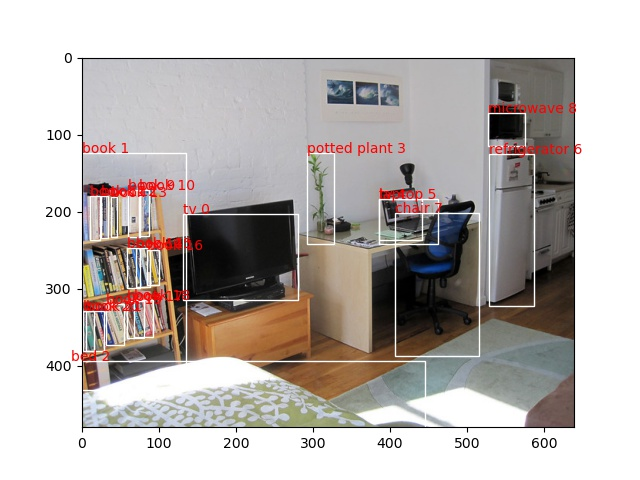
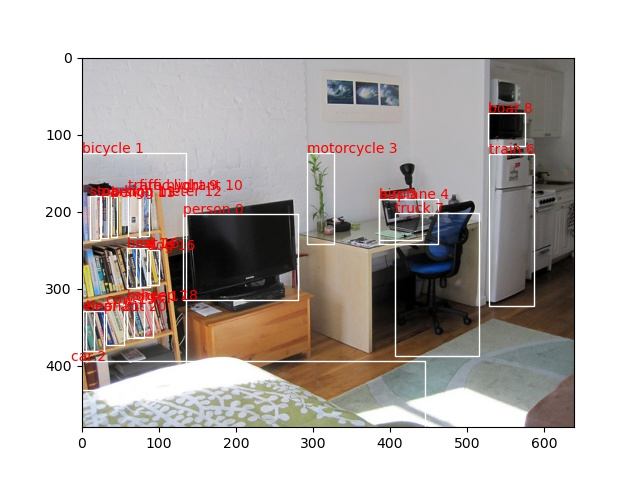
location files

diff --git a/helper.py b/helper.py
@@ -1,4 +1,6 @@
+import copy
 import os
+import re
 from collections import Counter
 
 import pandas as pd
@@ -18,6 +20,19 @@ EN = 0
 BIERNIK = 3
 NARZEDNIK = 4
 
+data_path = os.path.join(os.path.dirname(os.path.abspath(__file__)), "pl/location.csv")
+frameworks_location = pd.read_csv(data_path, delimiter=', ', engine='python', header=None).values
+frameworks_location = dict(zip(frameworks_location[:, 0], frameworks_location[:, 1:]))
+
+data_path = os.path.join(os.path.dirname(os.path.abspath(__file__)), "pl/orientation.csv")
+frameworks_orientation = pd.read_csv(data_path, delimiter=', ', engine='python', header=None).values
+frameworks_orientation = dict(zip(frameworks_orientation[:, 0], frameworks_orientation[:, 1:]))
+
+data_path = os.path.join(os.path.dirname(os.path.abspath(__file__)), "pl/yolov3_LM.csv")
+data_multilingual_obj_names_lm = pd.read_csv(data_path, delimiter=', ', engine='python', index_col=None)
+
+data_path = os.path.join(os.path.dirname(os.path.abspath(__file__)), "pl/yolov3.csv")
+data_multilingual_obj_names = pd.read_csv(data_path, delimiter=', ', engine='python', index_col=None)
 
 def fmpm(scene, fuzzy):
     # liczba obiektow
@@ -195,19 +210,7 @@ def verbalize_pred_pl(pred, scene, fuzzy, v_labels_sequential):
     # data_path = os.path.join(os.path.dirname(os.path.abspath(__file__)), "pl/location_pl.csv")
     # location = pd.read_csv(data_path, delimiter=', ', engine='python').values
 
-    data_path = os.path.join(os.path.dirname(os.path.abspath(__file__)), "pl/location.csv")
-    frameworks_location = pd.read_csv(data_path, delimiter=', ', engine='python', header=None).values
-    frameworks_location = dict(zip(frameworks_location[:, 0], frameworks_location[:, 1:]))
 
-    data_path = os.path.join(os.path.dirname(os.path.abspath(__file__)), "pl/orientation.csv")
-    frameworks_orientation = pd.read_csv(data_path, delimiter=', ', engine='python', header=None).values
-    frameworks_orientation = dict(zip(frameworks_orientation[:, 0], frameworks_orientation[:, 1:]))
-
-    data_path = os.path.join(os.path.dirname(os.path.abspath(__file__)), "pl/yolov3_LM.csv")
-    data_multilingual_obj_names_lm = pd.read_csv(data_path, delimiter=', ', engine='python', index_col=None)
-
-    data_path = os.path.join(os.path.dirname(os.path.abspath(__file__)), "pl/yolov3.csv")
-    data_multilingual_obj_names = pd.read_csv(data_path, delimiter=', ', engine='python', index_col=None)
 
     image_labels_counter = Counter(v_labels_sequential)
     for object_name in image_labels_counter.keys():
@@ -232,11 +235,11 @@ def verbalize_pred_pl(pred, scene, fuzzy, v_labels_sequential):
 
         framework_location = frameworks_location[location_name_curr][0]
         framework_orientation = frameworks_orientation[orientation_name_curr][0]
-        txt = txt.__add__(
-            framework_location.format_map(get_row(data_multilingual_obj_names, first_obj_name)))
+        sentence = create_replacement(framework_location, data_multilingual_obj_names,
+                                      [first_obj_name, second_obj_name])
+        txt = txt.__add__(sentence)
         txt = txt.__add__(", ")
-        txt = txt.__add__(
-            framework_orientation.format_map(get_row(data_multilingual_obj_names, first_obj_name)))
+        txt = txt.__add__("{}".format(framework_orientation))
         txt = txt.__add__("\n")
     return txt
 
@@ -248,6 +251,20 @@ def find_name(data, name):
 def get_row(data, name):
     return data.iloc[
         data.index[data['ENG'] == name]].to_dict('records')[0]
+
+
+def create_replacement(framework, data_multilingual_obj_names, predicate_ref_obj):
+    regex = r'\{(.*?)\}'
+    obj_places = re.findall(regex, framework)
+    sentence = copy.copy(framework)
+    for a_string in obj_places:
+        result = a_string.split(":")
+        object_case_name = result[0]
+        object_place = int(result[1])
+        object_case = get_row(data_multilingual_obj_names, predicate_ref_obj[object_place])
+        s = "{" + a_string + "}"
+        sentence = sentence.replace(s, object_case[object_case_name])
+    return sentence
 
 
 def verbalize_pred_eng(pred, scene, fuzzy, v_labels_sequential):

diff --git a/YOLO/img_det.py b/YOLO/img_det.py
@@ -125,37 +125,42 @@ def load_image_pixels(filename, shape):
 
 
 # get all of the results above a threshold
-def get_boxes(boxes, labels, thresh, image_w, image_h, photo_filename, photo_boxed_filename):
-    v_boxes2, v_boxes, v_scores = list(), [], list()
+def get_boxes(boxes, thresh):
+    v_boxes, v_labels, v_scores = list(), list(), list()
     # enumerate all boxes
-    obj_number = 1
-    b = [0, 0, 10, 10, image_w, image_h]
-    v_labels = ['scene']
-    v_labels_sequential = ['scene']
-    v_boxes.append(b)
     for box in boxes:
         # enumerate all possible labels
         for i in range(len(labels)):
             # check if the threshold for this label is high enough
             if box.classes[i] > thresh:
-                y1, x1, y2, x2 = box.YtopLeft, box.XtopLeft, box.YbottomRight, box.XbottomRight
-                # calculate width and height of the box
-                width, height = box.calculate_width(), box.calculate_height()
-
-                def check_labels(lab):
-                    if lab not in v_labels:
-                        v_labels.append(lab)
-                    return v_labels.index(lab)
-
-                b = [obj_number, check_labels(labels[i]), x1, y1, width, height]
-                v_boxes.append(b)
-                v_boxes2.append(box)
-                v_labels_sequential.append(labels[i])
+                v_boxes.append(box)
+                v_labels.append(labels[i])
                 v_scores.append(box.classes[i] * 100)
-                obj_number += 1
             # don't break, many labels may trigger for one box
+    return v_boxes, v_labels, v_scores
 
-    return v_boxes, v_labels, v_scores, v_labels_sequential
+
+def return_coordinates(v_boxes, v_labels, image_w, image_h):
+    v_boxes_matlab = []
+    obj_number = 1
+    b = [0, 0, 10, 10, image_w, image_h]
+    v_labels_matlab = ['scene']
+    v_labels_matlab_sequential = ['scene']
+    v_boxes_matlab.append(b)
+    for idx, box in enumerate(v_boxes):
+        y1, x1, y2, x2 = box.YtopLeft, box.XtopLeft, box.YbottomRight, box.XbottomRight
+        width, height = box.calculate_width(), box.calculate_height()
+
+        def check_labels(lab):
+            if lab not in v_labels_matlab:
+                v_labels_matlab.append(lab)
+            return v_labels_matlab.index(lab)
+
+        b = [obj_number, check_labels(v_labels[idx]), x1, y1, width, height]
+        v_boxes_matlab.append(b)
+        v_labels_matlab_sequential.append(labels[idx])
+        obj_number += 1
+    return v_boxes_matlab, v_labels_matlab, v_labels_matlab_sequential
 
 
 # draw all results
@@ -215,8 +220,6 @@ def vbox_engine(photo_filename, photo_boxed_filename):
     do_nms(boxes, 0.5)
     # define the labels
     # get the details of the detected objects
-    v_boxes, v_labels, v_scores, v_labels_sequential = get_boxes(boxes, labels, class_threshold, image_w, image_h,
-                                                                 photo_filename,
-                                                                 photo_boxed_filename)
-    return v_boxes, v_labels, v_scores, image_w, image_h, v_labels_sequential
+    v_boxes, v_labels, v_scores = get_boxes(boxes, class_threshold)
+    return v_boxes, v_labels, v_scores, image_w, image_h
 # summarize what we found

diff --git a/test.py b/test.py
@@ -5,7 +5,7 @@ from Scene import Scene
 from PIL import Image
 from itertools import repeat
 
-from YOLO.img_det import vbox_engine, draw_boxes
+from YOLO.img_det import vbox_engine, draw_boxes, return_coordinates
 import numpy as np
 
 from helper import generate_description, verbalize_pred_pl, verbalize_pred, verbalize_pred_eng
@@ -16,26 +16,27 @@ def from_pic(input_filename):
     input_filename = str(input_filename)
     print("The file name you entered is: ", input_filename)
     photo_boxed_filename = input_filename.replace('.jpg', '_boxed.jpg')
-    v_boxes, v_labels, v_scores, image_w, image_h, v_labels_sequential = vbox_engine(input_filename,
-                                                                                     photo_boxed_filename)
+    v_boxes, v_labels, v_scores, image_w, image_h = vbox_engine(input_filename,
+                                                                photo_boxed_filename)
+    v_boxes_matlab_format, v_labels_matlab, v_labels_matlab_sequential = return_coordinates(v_boxes, v_labels, image_w, image_h)
 
     image = Image.open(input_filename)
 
     size = image.size
-    onames = v_labels
-    obj_num = len(v_boxes)
+    onames = v_labels_matlab
+    obj_num = len(v_boxes_matlab_format)
     ocolors = []
     ocolors.extend(repeat([1, 1, 1], obj_num))
-    obj = np.array(v_boxes)
+    obj = np.array(v_boxes_matlab_format)
 
     obj_org = copy.copy(obj)
     background = []
     im = image
     background2 = []
-    scene = Scene(im=im, fname=input_filename, size=size, onames=onames, ocols=ocolors, obj=obj, obj_num=obj_num,
+    scene = Scene(im=im, fname=input_filename, size=size, onames=onames, ocols=[], obj=obj, obj_num=obj_num,
                   obj_org=obj_org,
                   background=background, background2=background2)
-    return scene, v_labels_sequential
+    return scene, v_labels_matlab, v_labels_matlab_sequential
 
 
 # process_for_grouping()
@@ -46,11 +47,11 @@ def from_pic(input_filename):
 
 input_filename = "images/6813627120_a222bcba0d_z.jpg"
 photo_boxed_filename = input_filename.replace('.jpg', '_boxed.jpg')
-gtruth, v_labels_sequential = from_pic(input_filename)
+gtruth, v_labels_matlab, v_labels_sequential = from_pic(input_filename)
 # gtruth, v_labels_sequential = test_data()
 pred_sort, gtruth, fuzzy = generate_description(gtruth)
 print(verbalize_pred_pl(pred_sort, gtruth, fuzzy, v_labels_sequential))
 # print(verbalize_pred_eng(pred_sort, gtruth, fuzzy, v_labels_sequential))
 # print(verbalize_pred(pred_sort, gtruth, fuzzy))
 
-# draw_boxes(input_filename, photo_boxed_filename, gtruth.obj, v_labels_sequential)
+draw_boxes(input_filename, photo_boxed_filename, gtruth.obj, v_labels_sequential)
